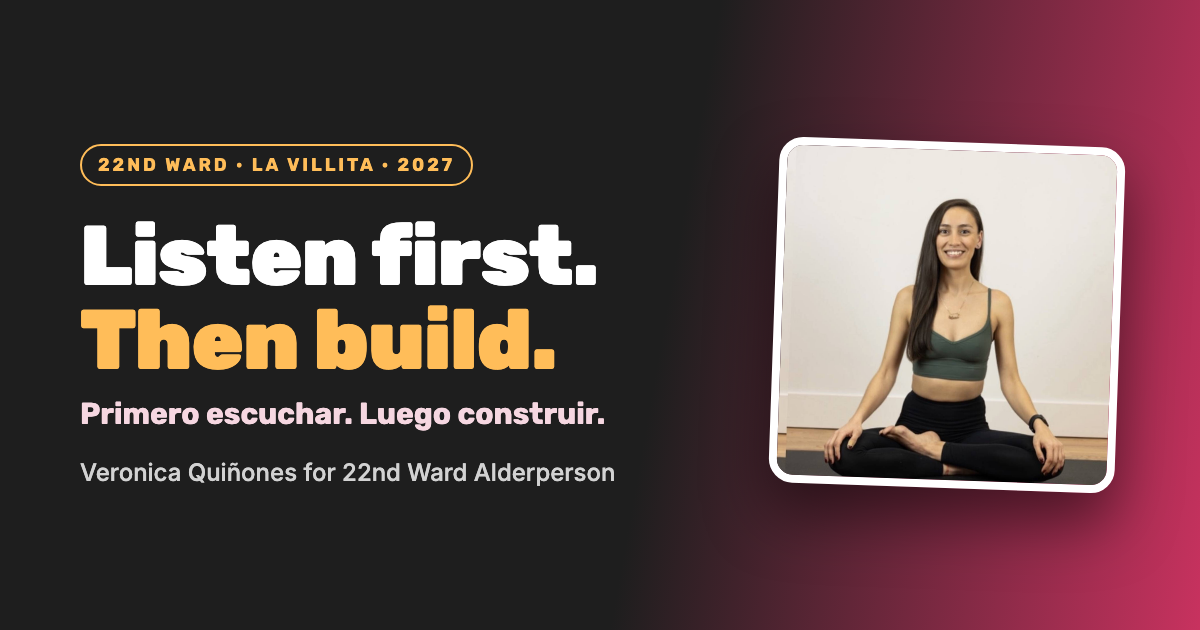
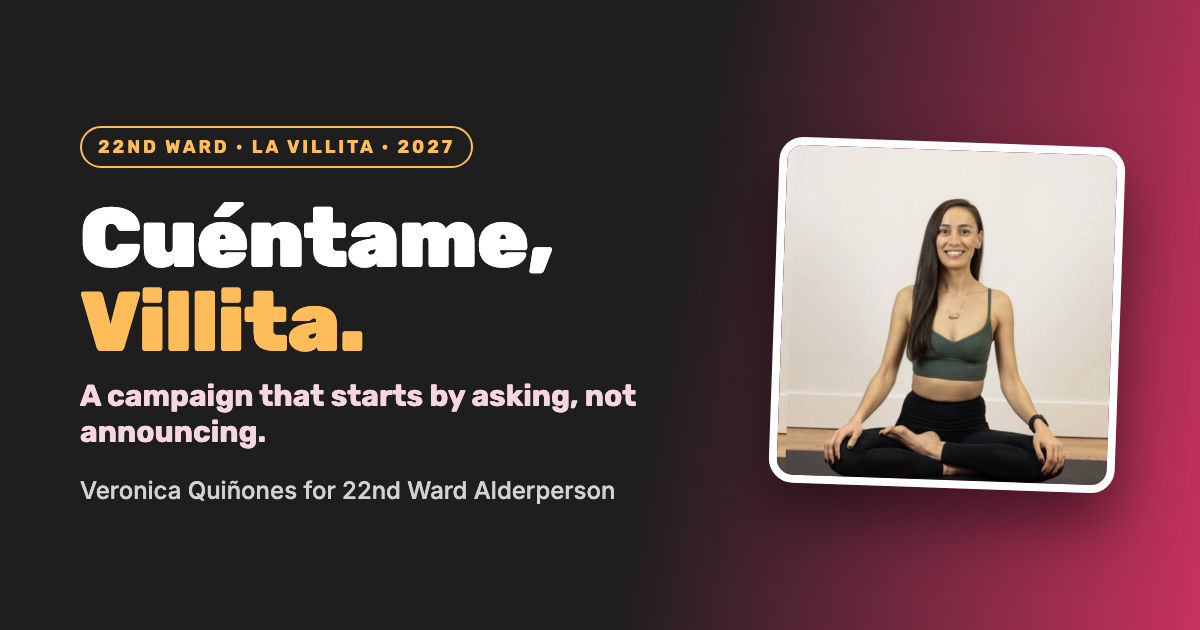
Replace borrowed campaign lines with Veronica's own voice
Cuéntame, Villita listening tour; las llaves contrast; fridge-door dates;
Me apunto CTA. Spanish updated for every changed key.

Changed region(s): [[0.0617, 0.181, 0.5242, 0.8143]]

diff --git a/README.md b/README.md
@@ -3,6 +3,7 @@
 A concept site that visualizes what a 2027 campaign for Chicago's 22nd Ward (Little Village)
 alderperson could look like for Veronica Quiñones, co-founder and vice president of the Latina
 Sweat Project and a lifelong Little Village resident. Nothing here is a declaration of candidacy.
+Voice: "Cuéntame, Villita" (a listening tour, one kitchen table at a time), "Las llaves no se heredan", "Nacida aquí. Me quedo aquí.", "Puertas abiertas, libros abiertos." All lines are original to this campaign; nothing is borrowed from other campaign sites.
 The site ships with `<meta name="robots" content="noindex, nofollow">`.
 
 Live: https://awaisqazi.github.io/veronica-22nd-ward/
